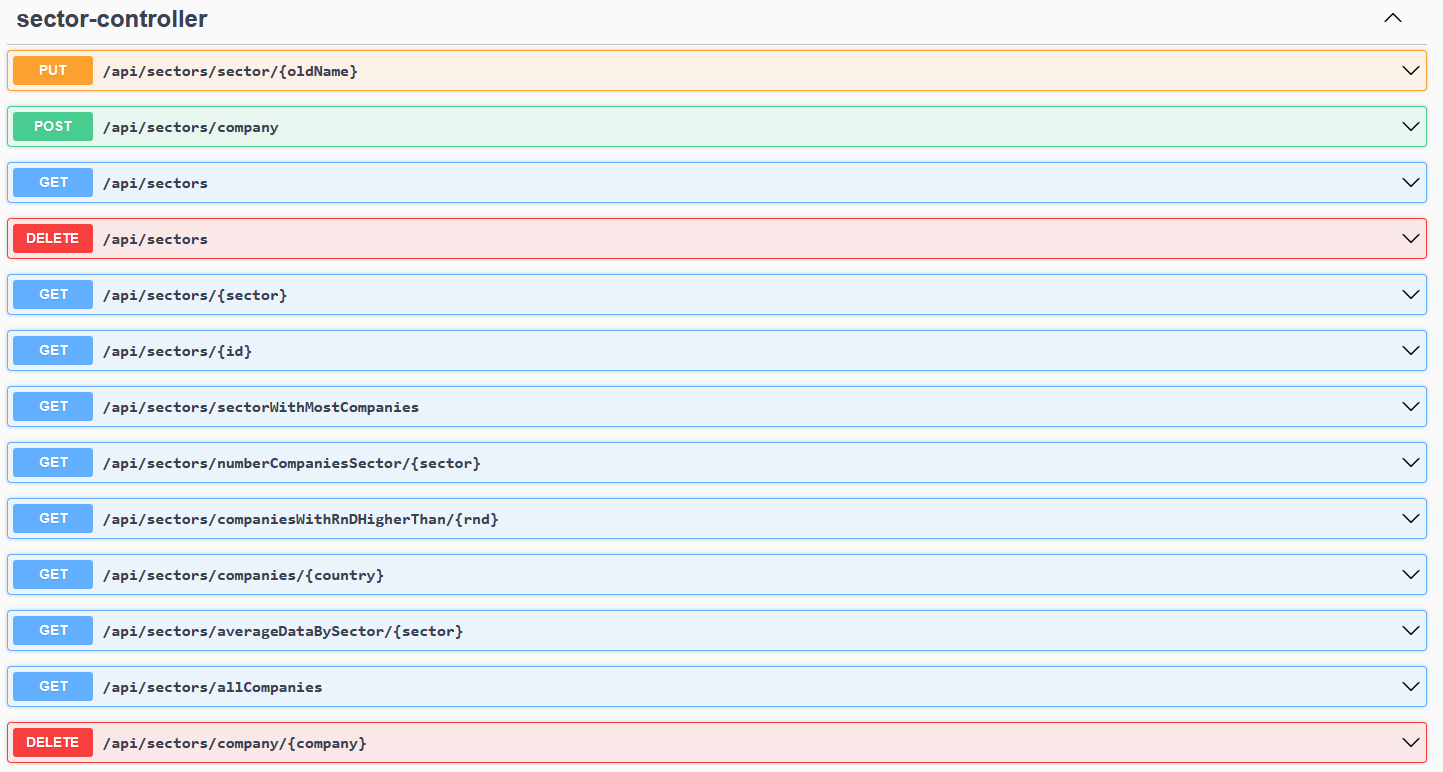
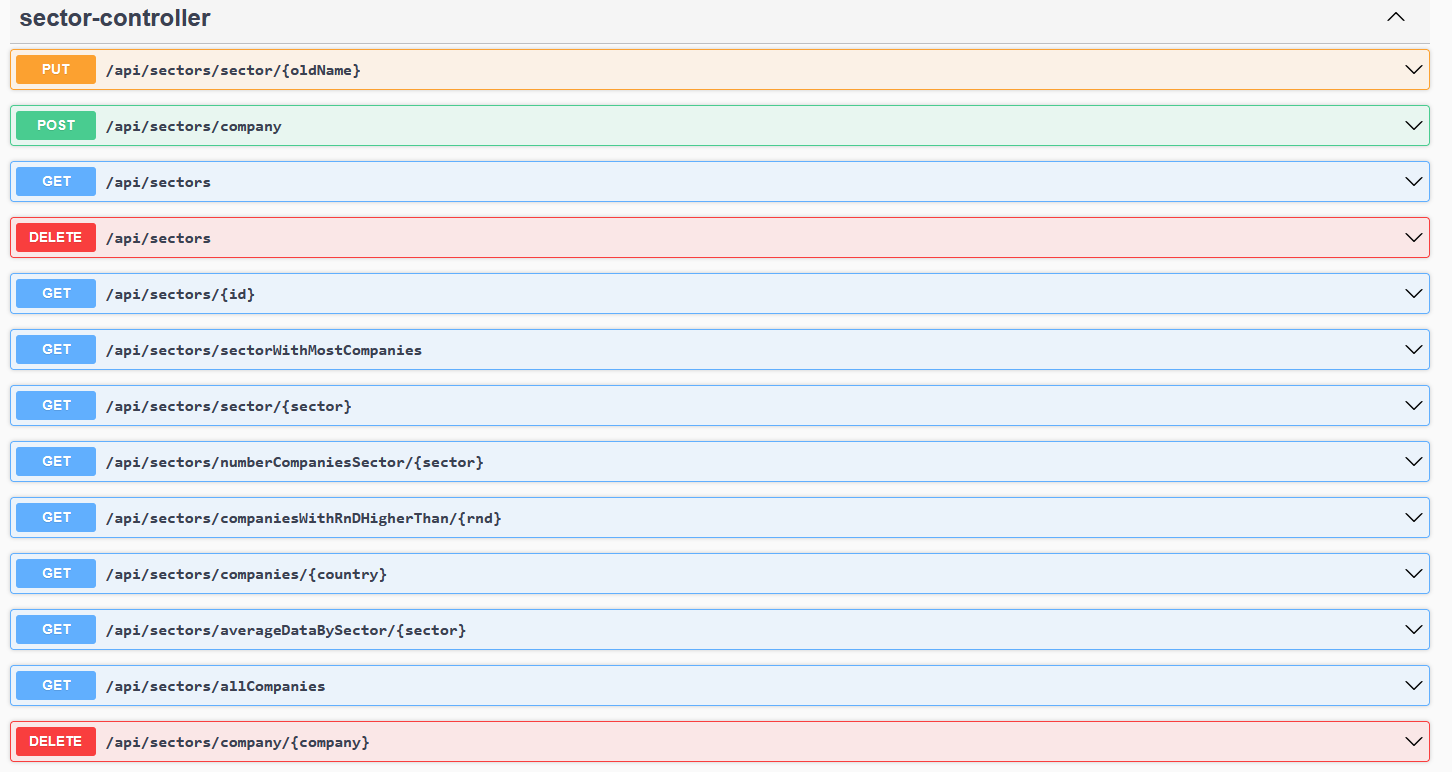
FINAL COMMIT

diff --git a/6- ProiektuPertsonala/projektupertsonala/src/main/java/dambi/projektupertsonala/controller/SectorController.java b/6- ProiektuPertsonala/projektupertsonala/src/main/java/dambi/projektupertsonala/controller/SectorController.java
@@ -44,7 +44,7 @@ public class SectorController {
     }
 
     // Sektore bat erakutsiko digu metodo honek
-    @GetMapping("/{sector}")
+    @GetMapping("sector/{sector}")
     public Sector getSectorbySector(@PathVariable String sector) {
         return sectorService.getSectorByName(sector);
     }
